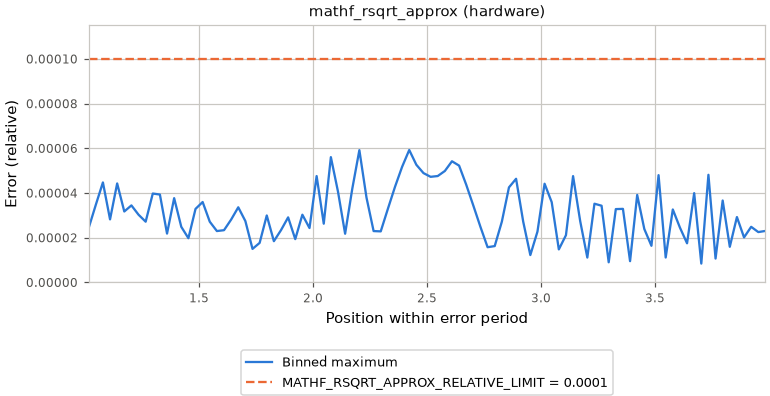
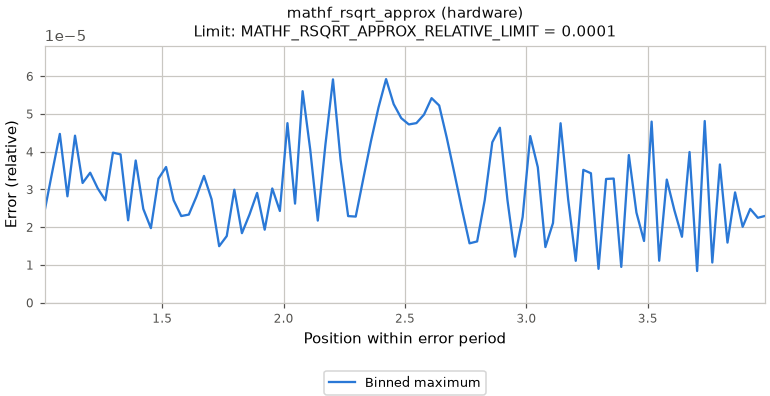
math: show exact fast paths and scale error figures

diff --git a/scripts/gates/tests/test_fast_paths.py b/scripts/gates/tests/test_fast_paths.py
@@ -22,6 +22,7 @@ class FastPathTests(unittest.TestCase):
         self.header.parent.mkdir(parents=True)
         self.header.write_text('#define EXAMPLE_LIMIT 1\n'
                                '/* Seed correction. | y = y(2 - ay) | positive normal inputs */\n'
+                               '/* exact: y = 1/x */\n'
                                '/* MATH_FAST_PATH(fast_f, plain_f, EXAMPLE_LIMIT) */\n'
                                'static inline float example(float x) { return x; }\n')
         source = self.root / 'launcher/packages/math/tests/suite_math_numbers.c'
@@ -84,6 +85,44 @@ class FastPathTests(unittest.TestCase):
         self.assertNotIn('fast-path-mathf_repeat.png', saved)
         self.assertIn('fast-path-mathx_rsqrt_q30.png', saved)
         self.assertIn('MATHX_RSQRT_Q30_RELATIVE_LIMIT = 2^-31', labels)
+
+    def test_small_errors_zoom_and_trim_zero_edges(self):
+        from unittest.mock import Mock
+        sys.path.insert(0, str(ROOT / 'launcher/tools/math'))
+        import fast_path_figures as figures
+        points = [(1, 0, 'ulp'), (2, 0.01, 'ulp'), (3, 0.02, 'ulp'), (4, 0, 'ulp')]
+        axis = Mock()
+        figures._configure_axis(axis, points, 'range')
+        axis.set_xlim.assert_called_once_with(2, 3)
+        self.assertEqual(figures.ERROR_ZOOM_FRACTION, 0.75)
+        from unittest.mock import patch
+        evidence = ({('example', 'f'): '0.02 ulp (sweep)'}, {('example', 'f'): points},
+                    {('example', 'f'): 'hardware'})
+        def check_plot(fig, path):
+            plotted = fig.axes[0]
+            self.assertEqual(plotted.get_xlim(), (2, 3))
+            self.assertAlmostEqual(plotted.get_ylim()[1], 0.02 * figures.ERROR_HEADROOM)
+            self.assertEqual(len(plotted.lines), 1)
+            self.assertIn('Limit: EXAMPLE_LIMIT = 1', plotted.get_title())
+            import matplotlib.pyplot as plt
+            plt.close(fig)
+        with patch.object(figures.fast_paths, 'annotations', return_value=self.annotations), \
+                patch.object(figures.fast_paths, 'error_evidence', return_value=evidence), \
+                patch.object(figures, 'save', side_effect=check_plot):
+            self.assertEqual(figures.main(['--out', str(self.root)]), 0)
+
+    def test_zero_error_with_nonzero_limit_skips_figure(self):
+        from unittest.mock import patch
+        sys.path.insert(0, str(ROOT / 'launcher/tools/math'))
+        import fast_path_figures as figures
+        evidence = ({('example', 'f'): '0 ulp (sweep)'},
+                    {('example', 'f'): [(1, 0, 'ulp'), (2, 0, 'ulp')]},
+                    {('example', 'f'): 'hardware'})
+        with patch.object(figures.fast_paths, 'annotations', return_value=self.annotations), \
+                patch.object(figures.fast_paths, 'error_evidence', return_value=evidence), \
+                patch.object(figures, 'save') as save:
+            self.assertEqual(figures.main(['--out', str(self.root)]), 0)
+        save.assert_not_called()
 
     def test_annotation_parser(self):
         self.assertEqual(len(self.annotations), 1)
@@ -269,18 +308,19 @@ class FastPathTests(unittest.TestCase):
         ))
         self.assertIn("| `CONFIG_MATH_FPU_RECIP` | plain | plain |", summary)
         self.assertIn("| `CONFIG_MATH_FPU_FUSED_MADD` | plain | fast |", summary)
-        self.assertNotIn("|", details)
+        self.assertIn("| Original | Fast path |", details)
+        self.assertIn("| $`y = 1/a`$ | $`y = y + y(1 - ay)`$ |", details)
         self.assertNotIn("**Plain way**", details)
         assert_contains(self, details, (
             "Symbols: nonzero input `a`; reciprocal seed `y`.",
             "`sinf` in output LSBs",
             "`[MATHX_RSQRT_MIN, 2^32)`",
         ))
-        self.assertEqual(details.count("```math"), len({item.key for item in items}))
-        self.assertEqual(details.count("![Error across"), len({item.key for item in items}))
+        self.assertEqual(details.count("| Original | Fast path |"), len({item.key for item in items}))
+        self.assertNotIn("![Error across", details)
         identity_text = paths.render(ROOT, items, rows, measured, errors, bins, sizes, fpu, "test target",
                                      input_counts={('mathf_repeat', 'f'): 123})
-        self.assertIn('Bit-identical to `fmodf` over 123 inputs.', identity_text)
+        self.assertIn('Exact: no error over 123 inputs of the sweep.', identity_text)
         self.assertNotIn('fast-path-mathf_repeat.png', identity_text)
         paths.validate_sections(text, items)
         host_sources = {(item.key, item.kind): "host" for item in items}

diff --git a/launcher/tools/math/fast_path_figures.py b/launcher/tools/math/fast_path_figures.py
@@ -11,8 +11,13 @@ import math_bench_table as bench
 from docs.plot_style import FAINT, SLOTS, style_axes, subplots, save
 
 
+ERROR_ZOOM_FRACTION = 0.75
+ERROR_HEADROOM = 1.15
+
+
 def _configure_axis(axis, points, mode=None):
-    x, y, _ = zip(*sorted(points))
+    nonzero = [point for point in sorted(points) if point[1] != 0]
+    x, _, _ = zip(*(nonzero or sorted(points)))
     periodic = mode in ("period", "phase")
     if not periodic and min(x) > 0 and max(x) / min(x) >= 2:
         axis.set_xscale("log", base=2)
@@ -34,27 +39,34 @@ def main(argv=None):
         if not bench.parse_target(text):
             raise ValueError("error curves require a hardware MATHTARGET capture record")
         rows, _ = bench.read_fpu(bench.DATA / "math_bench_fpu_ops.txt")
-        _, bins, sources = fast_paths.error_evidence(ROOT, items, rows, text)
+        errors, bins, sources = fast_paths.error_evidence(ROOT, items, rows, text)
         axes = bench.parse_bin_axes(text)
         host = ROOT / fast_paths.HOST_CAPTURE
         if host.exists():
             axes.update(bench.parse_bin_axes(host.read_text(encoding="utf-8")))
         done = set()
         for item in items:
-            if item.limit == 0 or item.key in done or (item.key, item.kind) not in bins:
+            identity = item.key, item.kind
+            if item.key in done or identity not in bins or float(errors[identity].split()[0]) == 0:
                 continue
             done.add(item.key)
             points = sorted(bins[item.key, item.kind])
             x, y, _ = zip(*points)
             fig, axis = subplots(1, 1, (7, 3.6))
             axis.plot(x, y, color=SLOTS[0], label="Binned maximum")
-            axis.axhline(item.limit, color=SLOTS[1], linestyle="--", label=f"{item.limit_name} = {fast_paths.format_limit(item.limit)}")
+            zoom = float(errors[identity].split()[0]) < item.limit * ERROR_ZOOM_FRACTION
+            limit_label = f"{item.limit_name} = {fast_paths.format_limit(item.limit)}"
+            if not zoom:
+                axis.axhline(item.limit, color=SLOTS[1], linestyle="--", label=limit_label)
             _configure_axis(axis, points, axes.get((item.key, item.kind)))
-            axis.set_ylim(bottom=0, top=max(item.limit, max(y)) * 1.15)
+            axis.set_ylim(bottom=0, top=(max(y) if zoom else max(item.limit, max(y))) * ERROR_HEADROOM)
             unit = "fractional ulp" if item.unit == "ulp" and axes.get((item.key, item.kind)) == "period" else item.unit
             axis.set_ylabel(f"Error ({unit})")
             axis.grid(color=FAINT)
-            style_axes(axis, f"{item.key} ({sources[item.key, item.kind]})")
+            title = f"{item.key} ({sources[identity]})"
+            if zoom:
+                title += f"\nLimit: {limit_label}"
+            style_axes(axis, title)
             axis.legend(loc="upper center", bbox_to_anchor=(0.5, -0.24), fontsize="small")
             save(fig, args.out / f"fast-path-{item.key}.png")
     except (OSError, ValueError, KeyError) as error:

diff --git a/launcher/tools/perf/fast_paths.py b/launcher/tools/perf/fast_paths.py
@@ -37,6 +37,7 @@ class Annotation:
     limit: float
     description: str
     formula: str
+    original: str
     coverage: str
 
 
@@ -74,6 +75,9 @@ def annotations(root=ROOT):
             if not comments:
                 raise ValueError(f"missing description, formula or coverage: {key}")
             description, formula, coverage = map(str.strip, comments[-1].split("|"))
+            exact = re.search(r"/\* exact: (.*?) \*/\s*$", before)
+            if not exact:
+                raise ValueError(f"missing exact formula: {key}")
             body = function_bodies(text)[key]
             guard = re.search(r"^#(?:if|elif).*defined\(__XTENSA__\).*CONFIG_MATH_.*$", body, re.M)
             target = "portable"
@@ -82,7 +86,7 @@ def annotations(root=ROOT):
             unit, method = contracts[key]
             result.append(Annotation(key, kind, fast, plain, limit_name, unit, method, target,
                                      header.relative_to(root), before.count("\n") + 1,
-                                     limit, description, formula, coverage))
+                                     limit, description, formula, exact[1], coverage))
     if not result:
         raise ValueError("no fast-path annotations")
     return result
@@ -358,12 +362,14 @@ def render(root, items, rows, measured, errors, bins, sizes, fpu, target, source
     for key, group in groups.items():
         item = group[0]
         lines += ["", f'<a id="{key.replace("_", "-")}"></a>', "", f"## `{key}`", "",
-                  "```math", item.formula, "```", "", f"Symbols: {_inline_expressions(_description_fields(item)[1])}.", "",
+                  "| Original | Fast path |", "|---|---|",
+                  f"| $`{item.original}`$ | $`{item.formula}`$ |", "", f"Symbols: {_inline_expressions(_description_fields(item)[1])}.", "",
                   f"{item.method.capitalize()}: {_inline_expressions(item.coverage)}.", ""]
         identity = key, item.kind
-        if item.limit == 0 and identity in (input_counts or {}):
-            reference = ", ".join(f"`{name}`" for name in dict.fromkeys(CALL.findall(plain_expression(item, root))))
-            lines += [f"Bit-identical to {reference} over {input_counts[identity]} inputs."]
+        if identity in errors and float(errors[identity].split()[0]) == 0:
+            count = (input_counts or {}).get(identity)
+            sweep = f"{count} inputs of the sweep" if count is not None else "the sweep"
+            lines += [f"Exact: no error over {sweep}."]
             continue
         lines += [f"![Error across the input range](../images/math/fast-path-{key}.png)" if (key, item.kind) in bins
                   else "Error curve: - (capture pending)."]

diff --git a/launcher/packages/math/include/math/scalar/mathf.h b/launcher/packages/math/include/math/scalar/mathf.h
@@ -79,6 +79,7 @@ mathf_div(float a, float b) {
 /* Nonzero inputs away from float range limits; CONFIG_MATH_FPU_RECIP enables the seed. */
 /* For nonzero input a, reciprocal seed y with two Newton corrections. | y = y + y(1 - ay) | signed magnitudes and power-of-two edges */
 
+/* exact: y = 1/a */
 /* MATH_FAST_PATH(mathf_recip_f, div_recip_f, MATHF_RECIP_ULP_LIMIT) */
 
 static inline float
@@ -107,6 +108,7 @@ mathf_recip(float a) {
 /* One correction serves callers that accept the relative error limit for positive normal inputs. */
 /* For positive input v, reciprocal-root seed y with one Newton correction. | y = y(3/2 - (v/2)y^2) | all mantissas in [1,4), normal exponent strides and edges */
 
+/* exact: y = 1/\sqrt{v} */
 /* MATH_FAST_PATH(mathf_rsqrt_approx_f, div_rsqrt_f, MATHF_RSQRT_APPROX_RELATIVE_LIMIT) */
 
 static inline __attribute__((always_inline)) float
@@ -123,6 +125,7 @@ mathf_rsqrt_approx(float value) {
 /* Subnormal squared lengths retain the 1 / sqrtf path. On the board +inf gives NaN, outside normalize's domain. */
 /* For positive input v, reciprocal-root seed y with two Newton corrections. | y = y + (y/2)(1 - vy^2) | all mantissas in [1,4), normal exponent strides and edges */
 
+/* exact: y = 1/\sqrt{v} */
 /* MATH_FAST_PATH(mathf_rsqrt_f, div_rsqrt_f, MATHF_RSQRT_ULP_LIMIT) */
 
 static inline __attribute__((always_inline)) float
@@ -199,6 +202,7 @@ _Static_assert((MATHF_RECIP_ULP_LIMIT + 0.5F) * MATHF_REPEAT_FAST_QUOTIENT * FLT
 
 /* For input v and positive period len, reciprocal quotient and fused remainder r, with range fallback. | r = fma(-floor(v/len), len, v) | signed float bit patterns, quotient guard and endpoint edges */
 
+/* exact: r = v - \lfloor v/len \rfloor len */
 /* MATH_FAST_PATH(wrap_f, wrap_fmodf_f, MATHF_WRAP_ULP_LIMIT=0 ulp) */
 
 static inline float

diff --git a/launcher/packages/math/include/math/scalar/mathx.h b/launcher/packages/math/include/math/scalar/mathx.h
@@ -172,8 +172,10 @@ static const uint32_t mathx_rsqrt_seeds[] = {
 /* For m in [2^30, 2^32), midpoint rounding bounds relative error by 2^-31. */
 /* For integer mantissa m in [MATHX_RSQRT_MIN, 2^32), seed table, three Newton corrections and exact midpoint bracket give reciprocal root y. | y = round(2^{46}/sqrt(m)) | mantissa segment strides and exact midpoint brackets */
 
+/* exact: y = 2^{46}/\sqrt{m} */
 /* MATH_FAST_PATH(normalize_x, normalize_div_x, MATHX_RSQRT_Q30_RELATIVE_LIMIT) */
 
+/* exact: y = 2^{46}/\sqrt{m} */
 /* MATH_FAST_PATH(nlerp_x, nlerp_div_x, MATHX_RSQRT_Q30_RELATIVE_LIMIT) */
 
 static inline uint32_t

diff --git a/launcher/packages/math/include/math/scalar/trig.h b/launcher/packages/math/include/math/scalar/trig.h
@@ -41,6 +41,7 @@ trig_sin_quadrant(uint32_t r) {
 /* Sine of phase, TRIG_TURN to the turn; TRIG_SIN_SHIFT fractional bits. */
 /* For 16-bit phase input, quarter-wave samples a and b bracket it; t is the low eight phase bits and s is sine in output LSBs. | s = a + floor((b-a)t/256) | every 16-bit phase against sinf in output LSBs */
 
+/* exact: s = 2^{TRIG\_SIN\_SHIFT}\sin(2\pi\,phase/TRIG\_TURN) */
 /* MATH_FAST_PATH(trig_sin_i, sinf_f, TRIG_SIN_LSB_LIMIT=5 lsb) */
 
 static inline int32_t

diff --git a/docs/math/Fast-Paths.md b/docs/math/Fast-Paths.md
@@ -52,9 +52,9 @@ Measured target: esp32s3 (Xtensa, LX7_ESP32_S3_MP).
 
 ## `mathf_recip`
 
-```math
-y = y + y(1 - ay)
-```
+| Original | Fast path |
+|---|---|
+| $`y = 1/a`$ | $`y = y + y(1 - ay)`$ |
 
 Symbols: nonzero input `a`; reciprocal seed `y`.
 
@@ -66,9 +66,9 @@ Sweep: signed magnitudes and power-of-two edges.
 
 ## `mathf_rsqrt`
 
-```math
-y = y + (y/2)(1 - vy^2)
-```
+| Original | Fast path |
+|---|---|
+| $`y = 1/\sqrt{v}`$ | $`y = y + (y/2)(1 - vy^2)`$ |
 
 Symbols: positive input `v`; reciprocal-root seed `y`.
 
@@ -80,9 +80,9 @@ Proof: all mantissas in `[1,4)`, normal exponent strides and edges.
 
 ## `mathf_rsqrt_approx`
 
-```math
-y = y(3/2 - (v/2)y^2)
-```
+| Original | Fast path |
+|---|---|
+| $`y = 1/\sqrt{v}`$ | $`y = y(3/2 - (v/2)y^2)`$ |
 
 Symbols: positive input `v`; reciprocal-root seed `y`.
 
@@ -94,9 +94,9 @@ Proof: all mantissas in `[1,4)`, normal exponent strides and edges.
 
 ## `mathx_rsqrt_q30`
 
-```math
-y = round(2^{46}/sqrt(m))
-```
+| Original | Fast path |
+|---|---|
+| $`y = 2^{46}/\sqrt{m}`$ | $`y = round(2^{46}/sqrt(m))`$ |
 
 Symbols: integer mantissa `m` in `[MATHX_RSQRT_MIN, 2^32)`; reciprocal root `y`.
 
@@ -108,23 +108,23 @@ Proof: mantissa segment strides and exact midpoint brackets.
 
 ## `mathf_repeat`
 
-```math
-r = fma(-floor(v/len), len, v)
-```
+| Original | Fast path |
+|---|---|
+| $`r = v - \lfloor v/len \rfloor len`$ | $`r = fma(-floor(v/len), len, v)`$ |
 
 Symbols: input `v` and positive period `len`; fused remainder `r`.
 
 Sweep: signed float bit patterns, quotient guard and endpoint edges.
 
-Bit-identical to `fmodf` over 97845 inputs.
+Exact: no error over 97845 inputs of the sweep.
 
 <a id="trig-sin"></a>
 
 ## `trig_sin`
 
-```math
-s = a + floor((b-a)t/256)
-```
+| Original | Fast path |
+|---|---|
+| $`s = 2^{TRIG\_SIN\_SHIFT}\sin(2\pi\,phase/TRIG\_TURN)`$ | $`s = a + floor((b-a)t/256)`$ |
 
 Symbols: 16-bit phase input; quarter-wave samples `a` and `b` bracket it; `t` is the low eight phase bits and `s` is sine in output LSBs.
 
